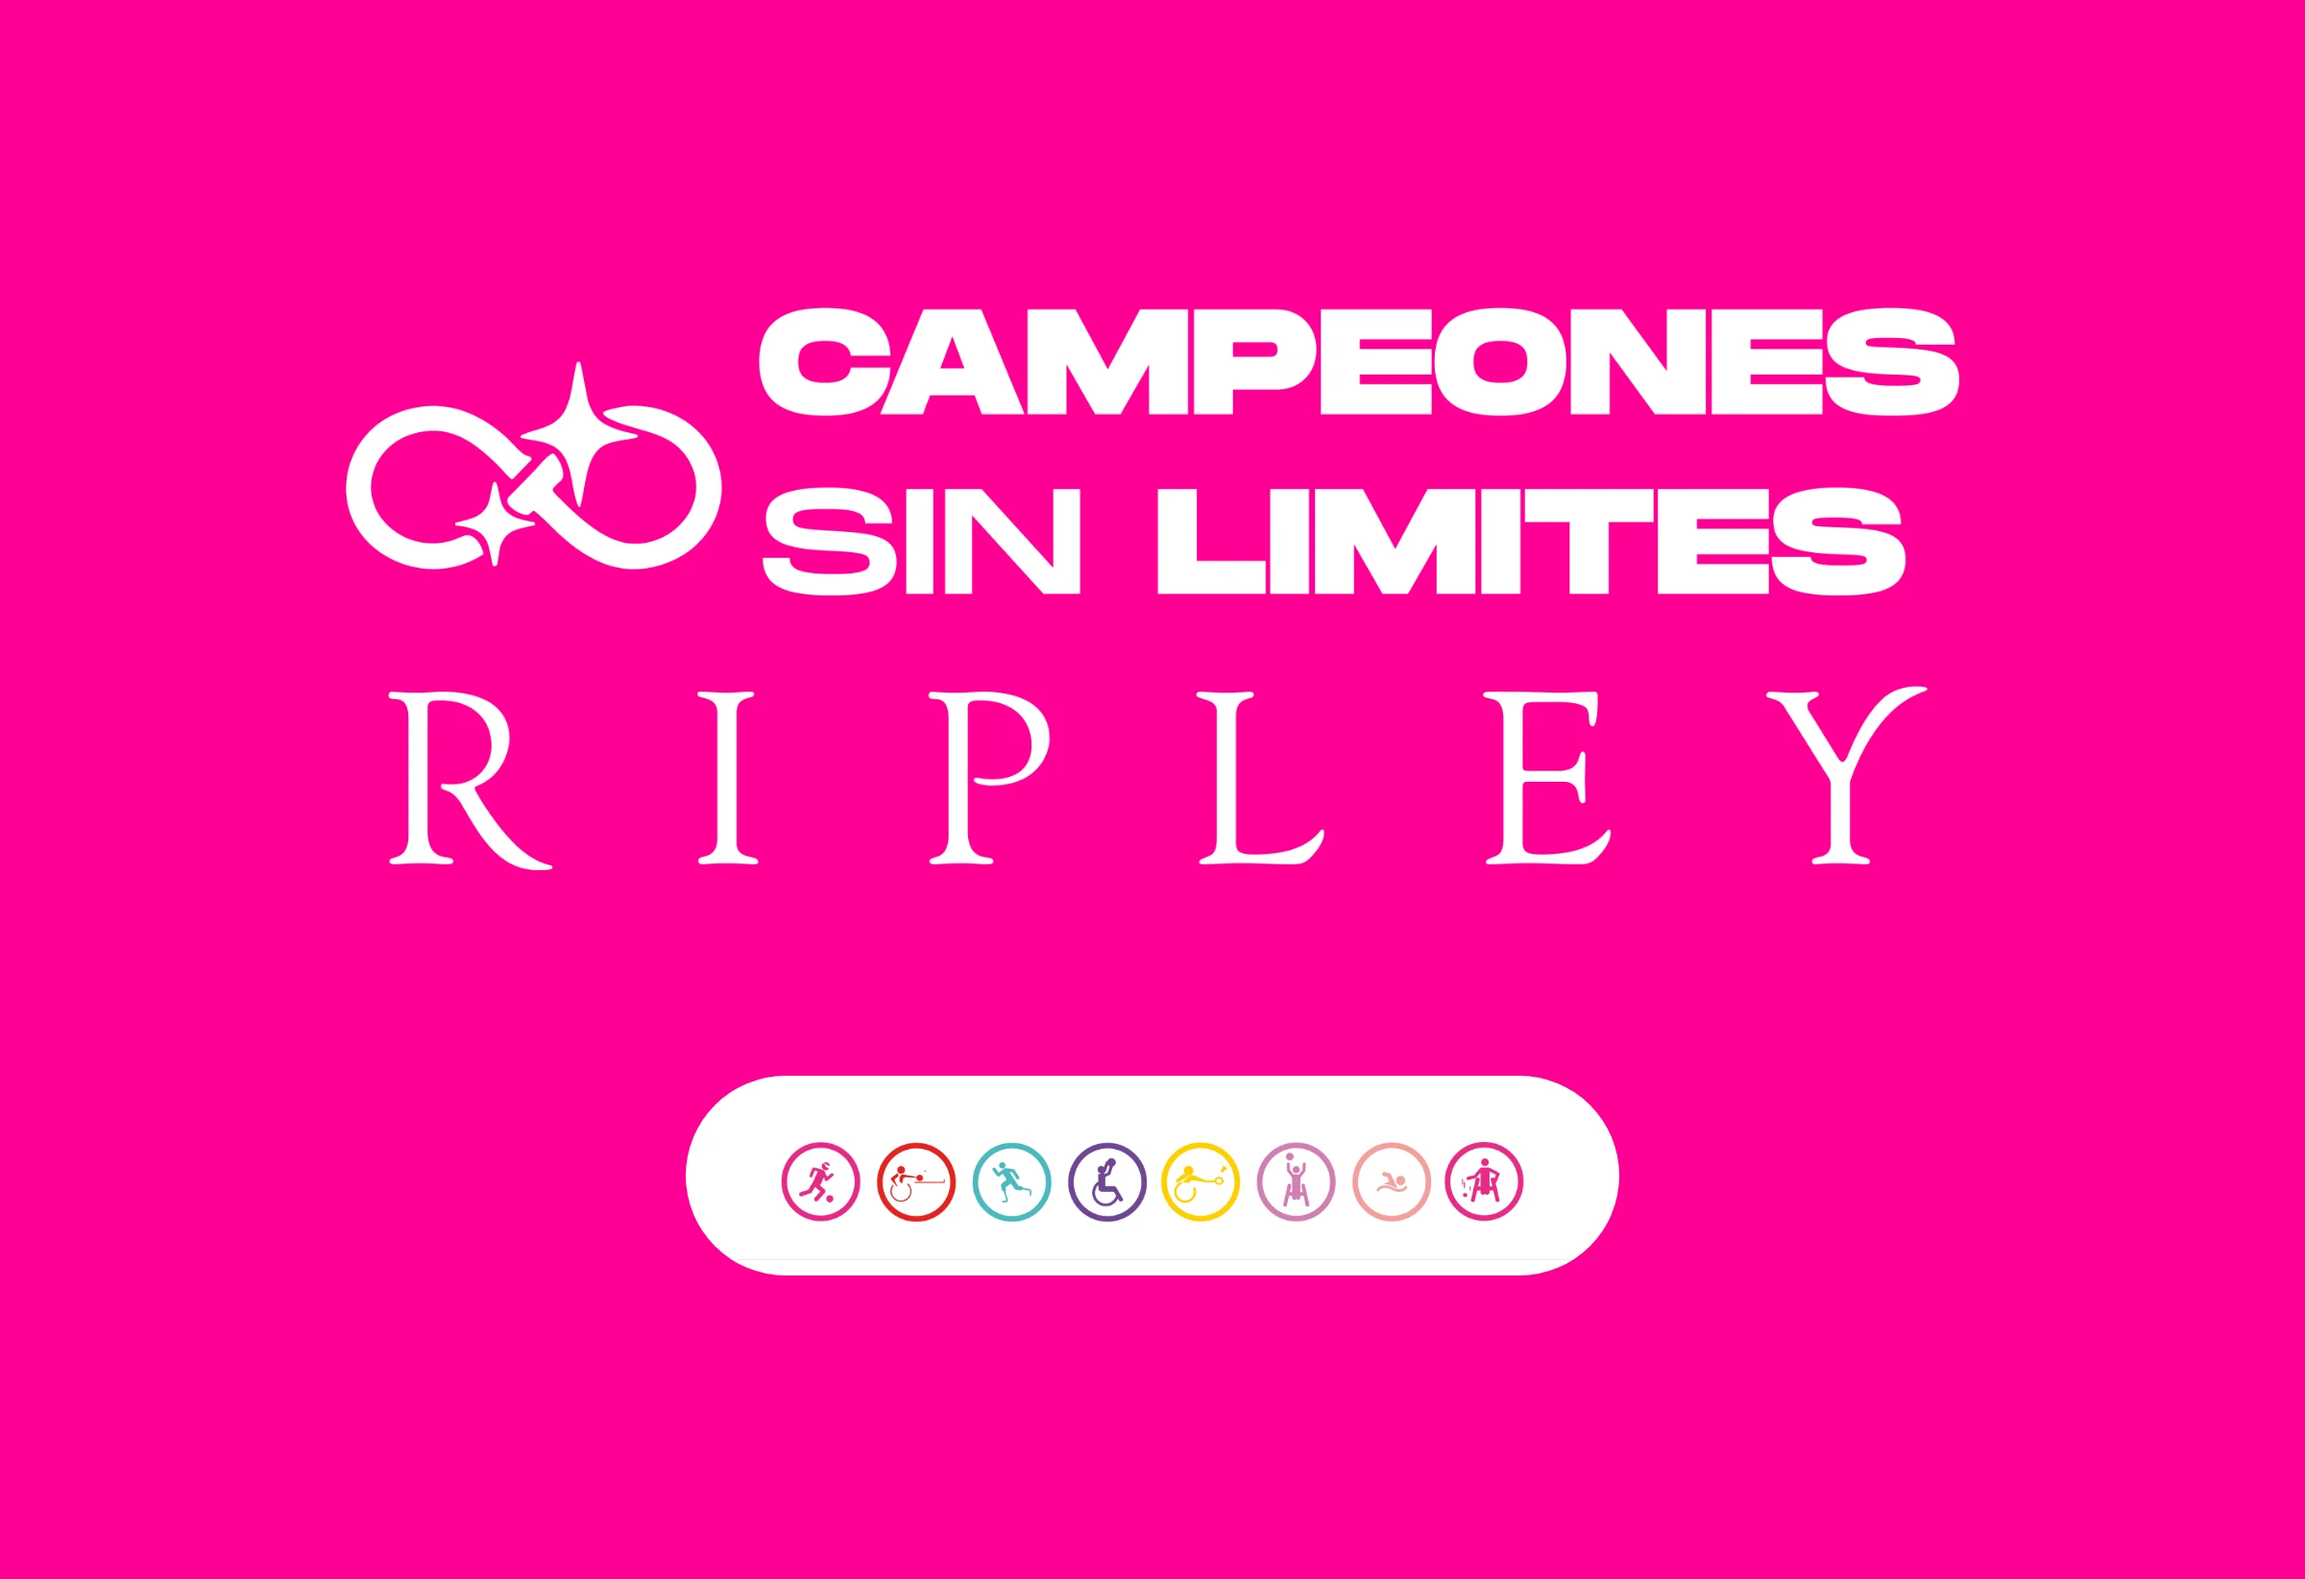
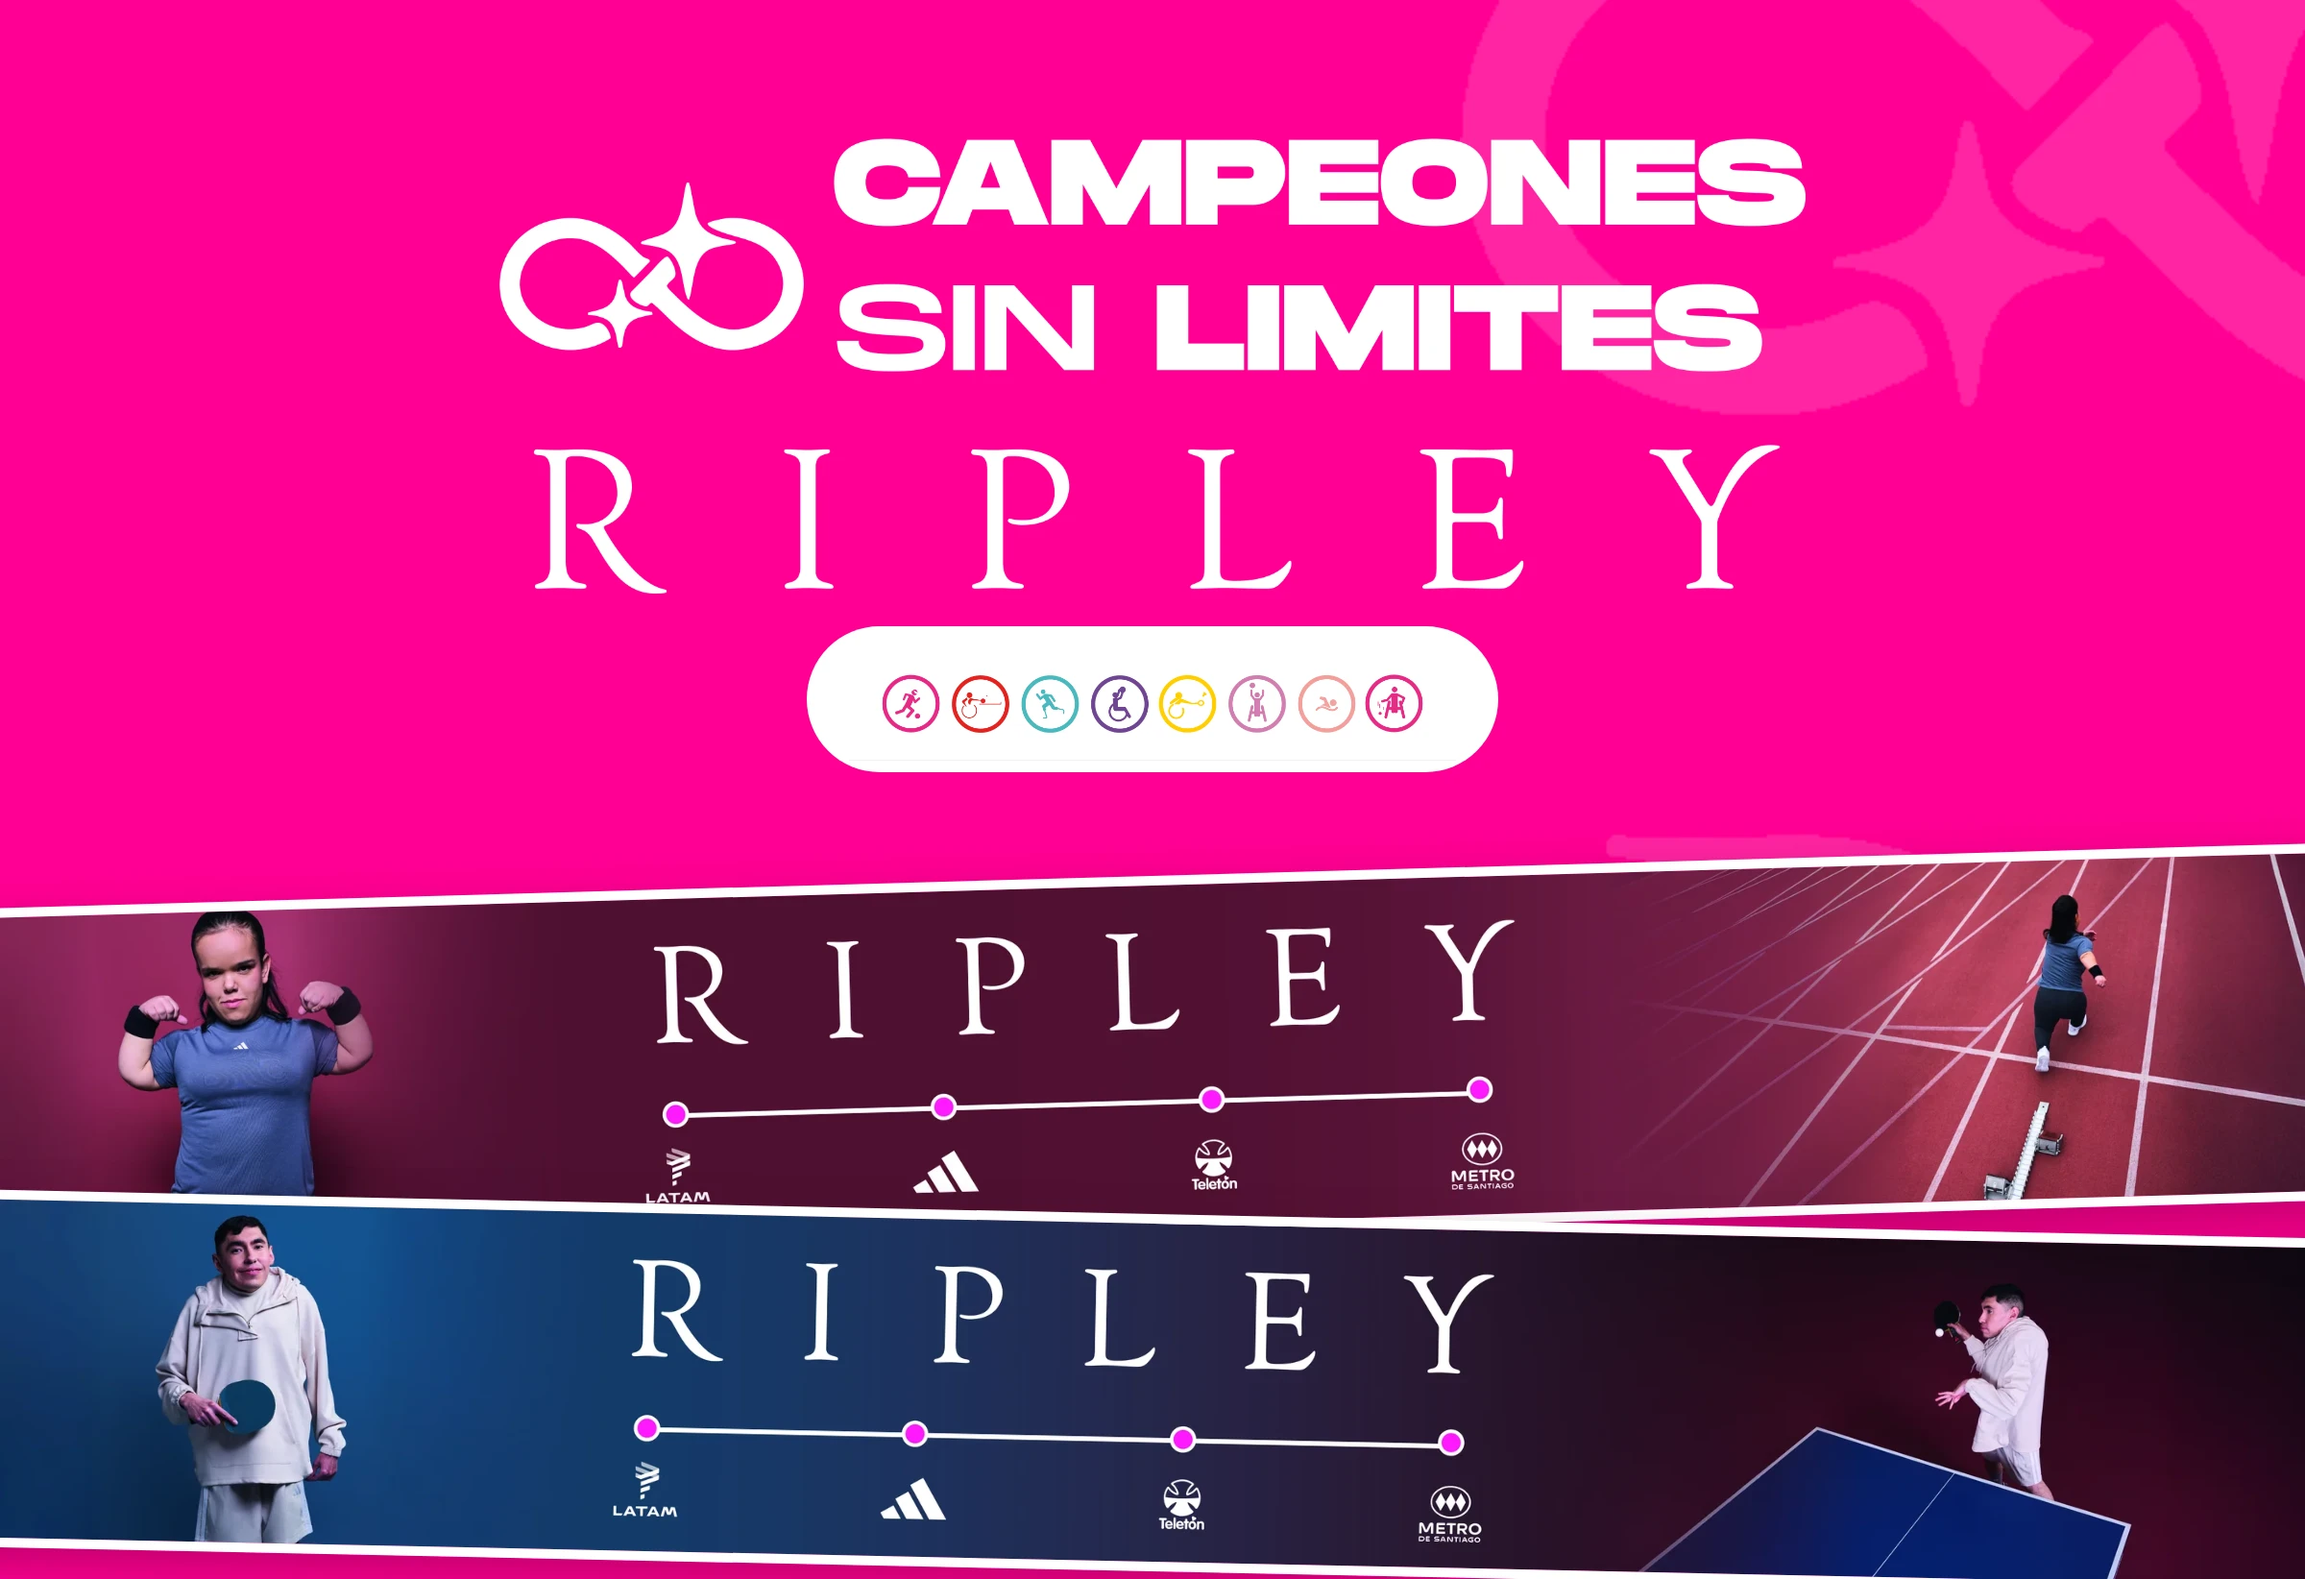
Portada de Campeones fusionada; sin menciones a búsqueda de trabajo
Claude-Session: https://claude.ai/code/session_01EHD4cHkCQcNGA6MuiEc7Mq

diff --git a/assets/js/app.js b/assets/js/app.js
@@ -145,7 +145,7 @@
       '<p class="sobre">María Javiera Molin Aguad</p>' +
       '<h2 class="titulo titulo--l">Sobre mí</h2>' +
       '<p>Soy Diseñadora Integral UC. Diseño campañas, eventos y piezas de tienda para marcas en Chile y Perú, pensadas para funcionar igual en un pendón de dos metros que en un mensaje de WhatsApp.</p>' +
-      '<p>Hoy trabajo freelance para Muralia y Neorigen, y busco un rol in-house en diseño.</p>' +
+      '<p>En 2025 fui Diseñadora de Marketing en Ripley. Hoy trabajo como freelance para Muralia y Neorigen.</p>' +
       '<p><a class="boton boton--acento" href="cv/CV-Javi-Molin.pdf" download>Descargar currículum</a></p>' +
       '</div>' +
       '<div class="sobremi__listas">' +
@@ -160,7 +160,7 @@
     return '<div class="contacto">' +
       '<p class="sobre">Santiago, Chile</p>' +
       '<h2 class="titulo titulo--xl">¿Conversamos?</h2>' +
-      '<p style="max-width:52ch;font-size:18px">Busco un rol in-house en diseño y tomo proyectos freelance.</p>' +
+      '<p style="max-width:52ch;font-size:18px">Escríbeme para conversar sobre un proyecto o un equipo de diseño.</p>' +
       '<div class="contacto__acciones">' +
       '<a class="boton boton--acento" href="mailto:javimolin@gmail.com">javimolin@gmail.com</a>' +
       '<a class="boton" href="https://www.linkedin.com/in/javimolin/" target="_blank" rel="noopener">LinkedIn</a>' +

diff --git a/index.html b/index.html
@@ -31,7 +31,7 @@
 
 <header class="barra">
   <span class="barra__marca"><i aria-hidden="true"></i>Javi Molin</span>
-  <a class="barra__centro" href="#contacto"><i aria-hidden="true"></i>Busco un rol in-house · Escríbeme</a>
+  <a class="barra__centro" href="#contacto"><i aria-hidden="true"></i>Escríbeme</a>
   <span class="barra__lado">2025 — 2026 · Santiago, Chile</span>
 </header>
 
@@ -75,7 +75,7 @@
       <ol class="nota__texto">
         <li>Hola, soy <strong>Javi Molin</strong>, Diseñadora Integral UC.</li>
         <li>Diseño campañas, eventos, identidades y piezas de tienda para marcas en Chile y Perú.</li>
-        <li>En 2025 fui <strong>Diseñadora de Marketing en Ripley</strong>. Hoy hago freelance y busco un rol in-house.<i class="nota__cursor" aria-hidden="true"></i></li>
+        <li>En 2025 fui <strong>Diseñadora de Marketing en Ripley</strong>. Hoy trabajo como freelance.<i class="nota__cursor" aria-hidden="true"></i></li>
       </ol>
       <p class="nota__pie"><span>Abre una carpeta para ver los proyectos.</span><a href="mailto:javimolin@gmail.com">javimolin@gmail.com</a></p>
     </aside>

diff --git a/assets/js/data.js b/assets/js/data.js
@@ -471,14 +471,6 @@ window.PORTAFOLIO = {
        "alt": "Portada de Campeones Sin Límites hecha con la tipografía, los colores y los elementos gráficos de la campaña."
       },
       {
-       "src": "img3/portadas/campeones-sin-limites-b.webp",
-       "w": 2400,
-       "h": 1644,
-       "nombre": "Portada, versión con franjas de vagón",
-       "formato": "Portada en la gráfica de la campaña",
-       "alt": "Portada alternativa de Campeones Sin Límites: el logo en blanco sobre magenta y tres franjas de vagón de Metro con los deportistas y las marcas aliadas."
-      },
-      {
        "src": "img1/campeones-sin-limites/c_frame.webp",
        "w": 2400,
        "h": 1015,
